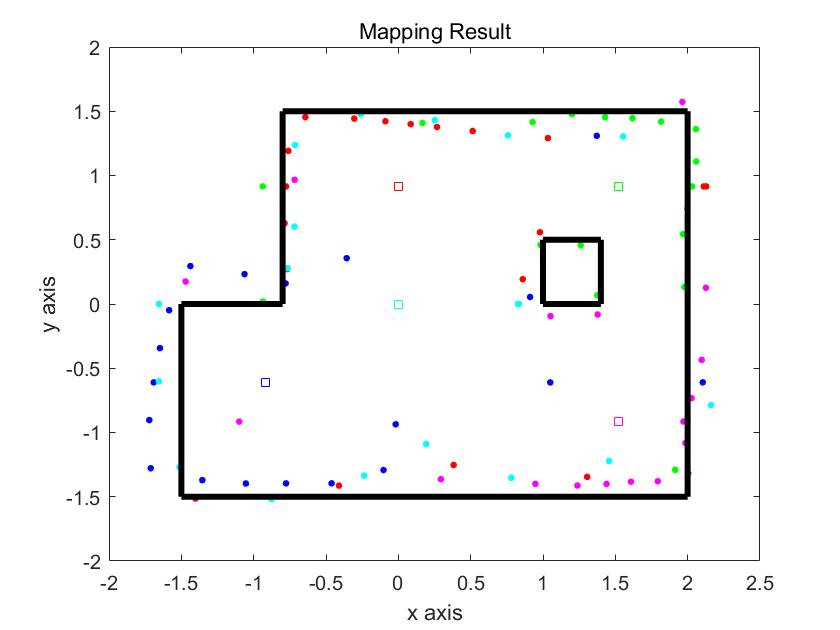
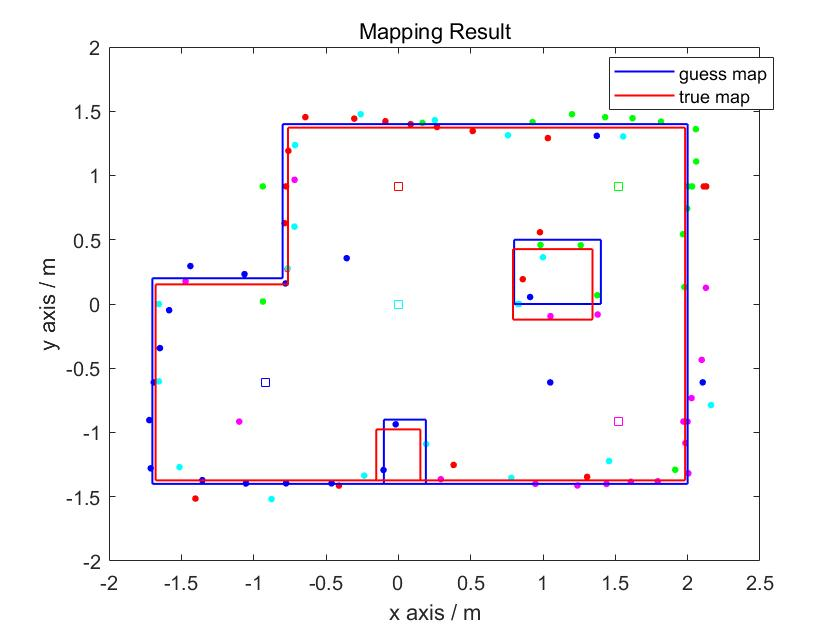
update Lab9
add scan twice analysis
modify mapping result and add some  discussion

diff --git a/5960-Lab9.html b/5960-Lab9.html
@@ -34,7 +34,7 @@
             </div>
         </nav>
         <!-- Page Header-->
-        <header class="masthead" style="background-image: url('assets/img/post-bg.jpg')">
+        <header class="masthead" style="background-image: url('assets/img/Lab9/mapping\ result.jpg')">
             <div class="container position-relative px-4 px-lg-5">
                 <div class="row gx-4 gx-lg-5 justify-content-center">
                     <div class="col-md-10 col-lg-8 col-xl-7">
@@ -109,10 +109,15 @@
                             Here is the control program in jupyter notebook. 
                             <p><img class="img-fluid" src="assets/img/Lab9/BLECommand.PNG"></p>
 
-                            TO DO<br>
-                            rotating twice to see how precise the scan are 
-                            picture: actual image of the lab space 
-                            conclusion: measurements matched up with what I expected. 
+                            <br>
+                            To see how accurate and repeatable the scan was, I did the rotations and measurements twice at the same position. 
+                            The actual roll angles were recorded together with the distances. 
+                            The polar plot below shows that the two scans are quite similar, especially when the obstacle is not so far away. 
+                            However, when the distance increases, the accuracy of the TOF sensor drops.
+                            Generally, the measurements matched up with what I expected.
+                            <p><img class="img-fluid" src="assets/img/Lab9/polar.jpg"></p>
+
+
                             <p></p>
                             I repeated the measurements in several marked locations and got the data below. 
                             The robot always starts in the positive direction of the x-axis.  
@@ -153,12 +158,12 @@
 
                             Here is the related code.
                             <pre><code>
-sensorOriginR=[0.075,0];%
+sensorOriginR=[0.075,0];
 obstacles=[];
 for i=1:size(dataStore.robotPose,1)
     for j=0:18
        theta=-j*20*pi/180;
-       robotPose=[dataStore.robotPose(i,:)*0.305,theta]
+       robotPose=[dataStore.robotPose(i,:)*0.305,theta] % unit: meter
        distance=dataStore.distances(i,j+1)*0.001
        
        % sensor pose in the global frame
@@ -186,6 +191,9 @@ end
                             To convert the map into a format we can use in the simulator, I manually estimated where the actual walls/obstacles were based on the scatter plot. 
                             Here are the results: 
                             <p><img class="img-fluid" src="assets/img/Lab9/mapping result.jpg"></p>
+                            The estimated walls and obstacles are generally consistent with the true ones. 
+                            But for small obstacles, due to the limited number of points, it will be more challenging to estimate. 
+                            We can scan at more locations, especially the areas around the obstacle, to solve this problem.  
                            
                                                         
                         </p>
